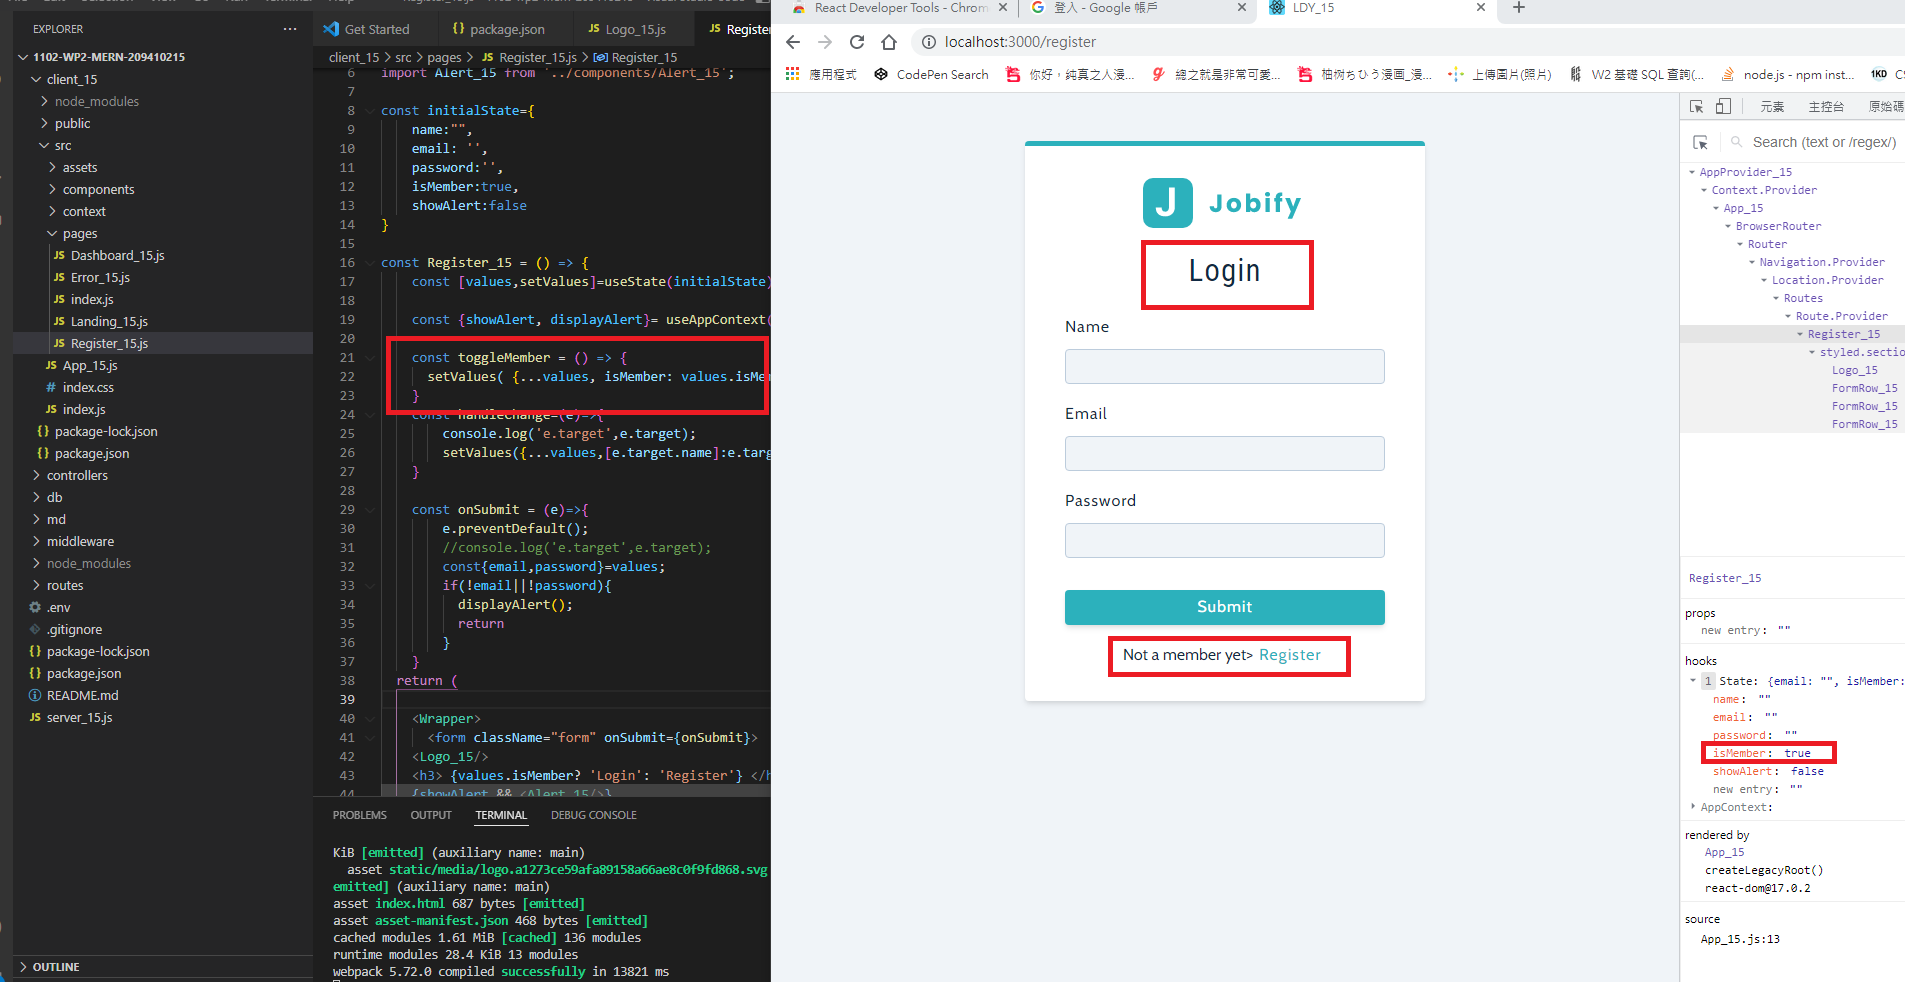
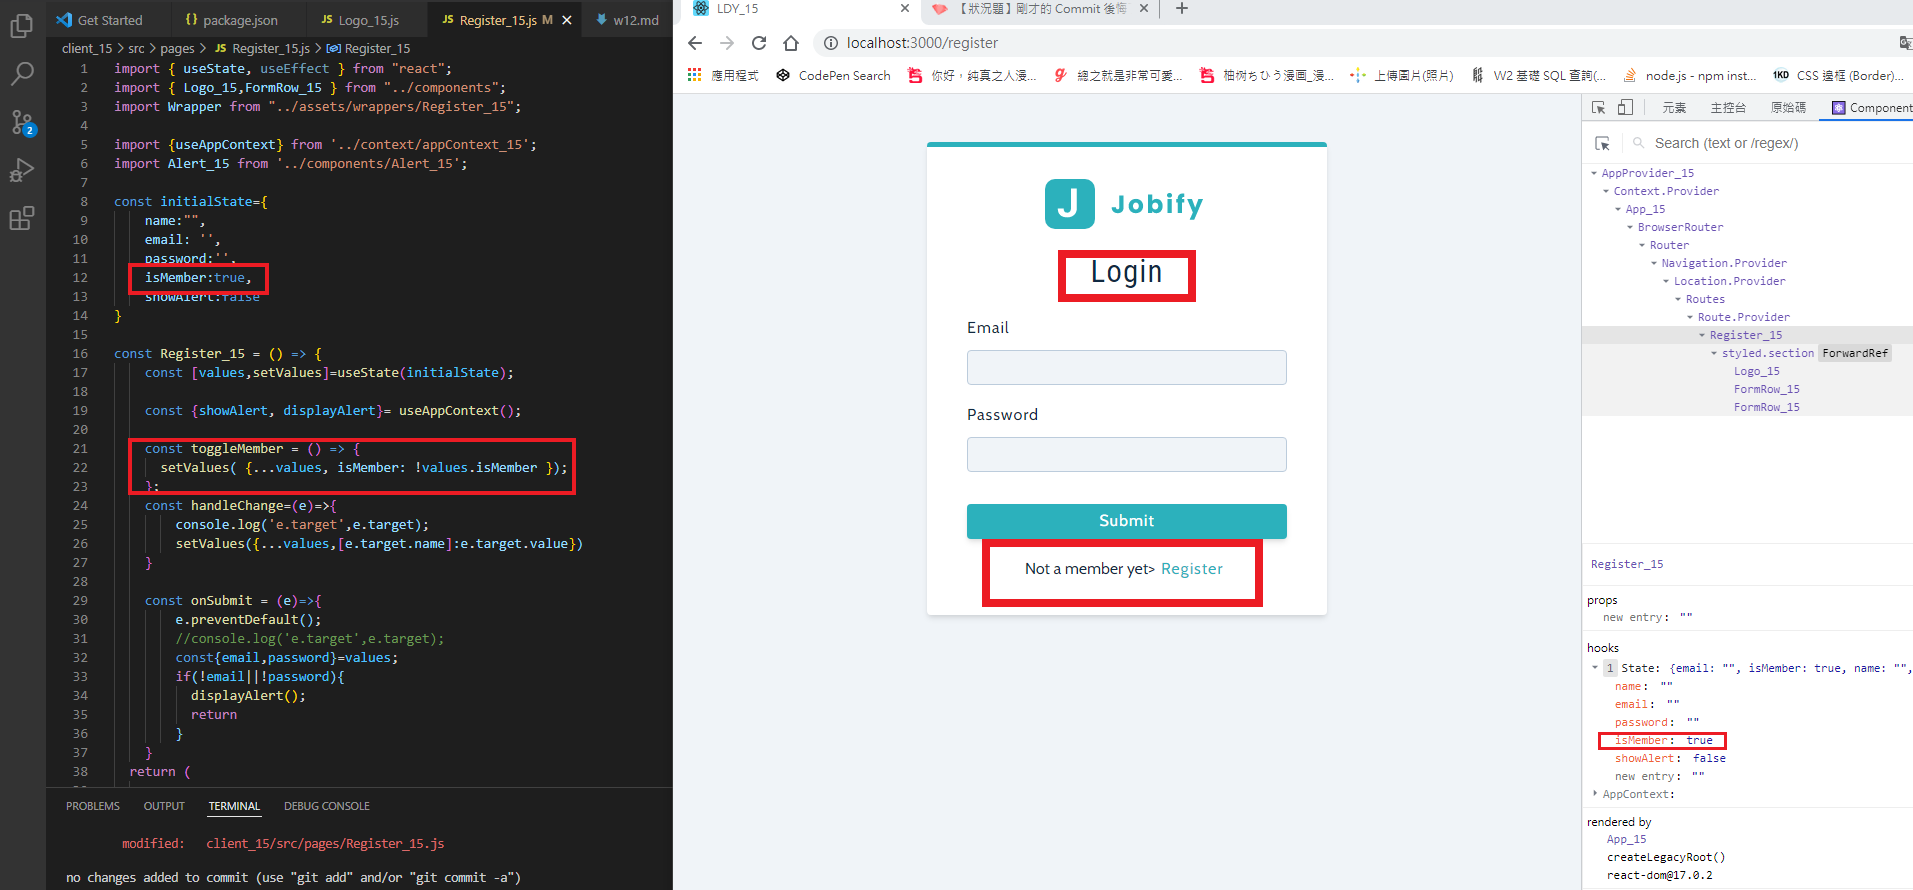
w12-p1 switch Register and Login, and log

diff --git a/client_15/src/pages/Register_15.js b/client_15/src/pages/Register_15.js
@@ -19,8 +19,8 @@ const Register_15 = () => {
     const {showAlert, displayAlert}= useAppContext();
 
     const toggleMember = () => {
-      setValues( {...values, isMember: values.isMember } );
-    }
+      setValues( {...values, isMember: !values.isMember });
+    };
     const handleChange=(e)=>{
         console.log('e.target',e.target);
         setValues({...values,[e.target.name]:e.target.value})
@@ -43,7 +43,7 @@ const Register_15 = () => {
     <h3> {values.isMember? 'Login': 'Register'} </h3>
     {showAlert && <Alert_15/>}
     {/* name input*/}
-    {values.isMember && (
+    {!values.isMember && (
       <FormRow_15
       type="text"
       name='name'

diff --git a/md/w12/w12.md b/md/w12/w12.md
@@ -1,5 +1,6 @@
 ### w12-p1 switch Register and Login, and log
 ![](w12-p1-1.png)
+![](w12-p1-2.png)
 
 ### w12-p2-1 test for notFoundMiddleware_xx.js 
 
